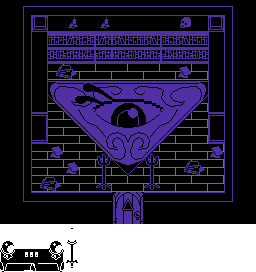
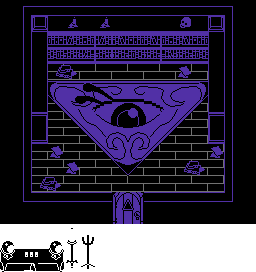
show/hide bounding boxes with ctrl+b

Changed region(s): [[0.5625, 0.5588, 0.625, 0.7059], [0.375, 0.5588, 0.4375, 0.7059], [0.3125, 0.8529, 0.375, 1.0]]

diff --git a/src/town/topview/__init__.py b/src/town/topview/__init__.py
@@ -1,4 +1,5 @@
 import pygame
+from pygame import Surface, SRCALPHA
 from contexts import Context
 from contexts.dialogue import DialogueContext
 from contexts.shop import ShopContext
@@ -32,6 +33,7 @@ class TopViewContext(Context):
     ctx.elem = None
     ctx.link = None
     ctx.anims = []
+    ctx.debug = False
 
   def handle_keydown(ctx, key):
     if ctx.child:
@@ -45,6 +47,8 @@ class TopViewContext(Context):
       return None
     if key in (pygame.K_SPACE, pygame.K_RETURN):
       return ctx.handle_talk()
+    if key == pygame.K_b and keyboard.get_pressed(pygame.K_LCTRL):
+      return ctx.handle_debug()
 
   def handle_keyup(ctx, key):
     if ctx.child:
@@ -55,6 +59,9 @@ class TopViewContext(Context):
   def handle_move(ctx, delta):
     ctx.hero.move(delta)
     ctx.collide(ctx.hero, delta)
+
+  def handle_debug(ctx):
+    ctx.debug = not ctx.debug
 
   def collide(ctx, actor, delta):
     delta_x, delta_y = delta
@@ -179,17 +186,27 @@ class TopViewContext(Context):
         z -= 1
       return z
     elems = sorted(ctx.stage.elems, key=zsort)
+    elem_sprites = []
     for elem in elems:
       if not ctx.child and hero.can_talk(elem):
         bubble_x, bubble_y = elem.get_rect().topright
         bubble_y -= TILE_SIZE // 4
-        sprites.append(Sprite(
+        elem_sprites.append(Sprite(
           image=assets.sprites["bubble_talk"],
           pos=(bubble_x, bubble_y),
           origin=("left", "bottom"),
           layer="markers"
         ))
-      sprites += elem.view()
+      elem.view(elem_sprites)
+      if ctx.debug and not ctx.child:
+        elem_sprites += debug_elem_view(elem)
+
+    elem_sprites.sort(key=lambda sprite: (
+      0 if sprite.layer == "bg"
+      else 2 if sprite.layer == "markers"
+      else 1
+    ))
+    sprites += elem_sprites
 
     if not ctx.child or type(ctx.child.child) is not ShopContext:
       hud_image = ctx.hud.update(ctx.hero.core)
@@ -209,3 +226,29 @@ class TopViewContext(Context):
 
     if ctx.child:
       ctx.child.view(sprites)
+
+def debug_elem_view(elem):
+  RED = 0x7FFF0000
+  BLUE = 0x7F0000FF
+  YELLOW = 0x7FFFFF00
+  GREEN = 0x7F00FF00
+  CIRCLE_RADIUS = 2
+  CIRCLE_SIZE = (CIRCLE_RADIUS * 2, CIRCLE_RADIUS * 2)
+
+  elem_rect = elem.get_rect()
+  box_surface = Surface(elem_rect.size, SRCALPHA)
+  box_color = RED if elem.solid else BLUE
+  box_layer = "markers" if elem.solid else "bg"
+  box_surface.fill(box_color)
+
+  pos_circle = Surface(CIRCLE_SIZE, SRCALPHA)
+  pygame.draw.circle(pos_circle, YELLOW, (CIRCLE_RADIUS, CIRCLE_RADIUS), CIRCLE_RADIUS)
+
+  spawn_circle = Surface(CIRCLE_SIZE, SRCALPHA)
+  pygame.draw.circle(spawn_circle, GREEN, (CIRCLE_RADIUS, CIRCLE_RADIUS), CIRCLE_RADIUS)
+
+  return [
+    Sprite(image=box_surface, pos=elem_rect.topleft, layer="hud"),
+    # Sprite(image=spawn_circle, pos=elem.spawn_pos, layer="hud", origin=("center", "center")),
+    Sprite(image=pos_circle, pos=elem.pos, layer="hud", origin=("center", "center")),
+  ]

diff --git a/src/town/topview/stage.py b/src/town/topview/stage.py
@@ -29,27 +29,25 @@ class Stage:
   scale = 32
 
   def parse_char(char):
-    if char == ".": return Stage.FLOOR, None
-    if char == "#": return Stage.WALL, None
-    if char == "'": return Stage.HALF_WALL, None
-    if char == "+": return Stage.FLOOR, Door()
+    if char == ".": return Stage.FLOOR
+    if char == "#": return Stage.WALL
+    if char == "'": return Stage.HALF_WALL
 
-  def __init__(stage, matrix=None):
-    stage.matrix = matrix or []
+  def __init__(stage, layout, elems):
+    stage.matrix = []
     stage.elems = []
-
-  def use(stage, layout, elems):
     for y, row in enumerate(layout):
       stage.matrix.append([])
       for x, char in enumerate(row):
         if char in elems:
-          elem = elems[char]
           tile = Stage.FLOOR
-        else:
-          tile, elem = Stage.parse_char(char)
-        stage.matrix[y].append(tile)
-        if elem:
+          elem = elems[char]
+          if callable(elem):
+            elem = elem()
           stage.spawn_elem_at((x, y), elem)
+        else:
+          tile = Stage.parse_char(char)
+        stage.matrix[y].append(tile)
 
   def get_width(stage):
     return len(stage.matrix[0]) if len(stage.matrix) else 0
@@ -77,8 +75,8 @@ class Stage:
 
   def spawn_elem_at(stage, cell, elem):
     x, y = cell
-    elem.pos = (
-      x * stage.scale + TILE_SIZE // 2,
-      y * stage.scale + TILE_SIZE // 2
-    )
+    elem.spawn((
+      (x + 0.5) * stage.scale,
+      (y + 0.5) * stage.scale
+    ))
     stage.elems.append(elem)

diff --git a/src/town/areas/fortune.py b/src/town/areas/fortune.py
@@ -1,5 +1,7 @@
 from town.topview.stage import Stage, Link
 from town.topview.actor import Actor
+from town.topview.door import Door
+from town.topview.fortunestand import FortuneStand
 from town.topview.fortunedesk import FortuneDesk
 from contexts.prompt import PromptContext, Choice
 from contexts.shop import ShopContext
@@ -21,19 +23,18 @@ class FortuneArea(Stage):
     "################",
     "###..........###",
     "###....1.....###",
-    "###...2......###",
-    "###...#####..###",
+    "###..........###",
+    "###...2####..###",
     "###..........###",
     "##............##",
     "##.....0......##",
-    "##....#..#....##",
-    "################",
-    "################",
+    "##....|..|....##",
+    "#######+.#######",
+    "#######..#######",
   ]
 
   def __init__(stage, hero):
-    super().__init__()
-    stage.use(stage.layout, {
+    super().__init__(stage.layout, {
       "0": hero,
       "1": Actor(
         core=MageCore(name="Mira"),
@@ -74,5 +75,7 @@ class FortuneArea(Stage):
           lambda: ctx.get_root().dissolve_out()
         ]
       ),
-      "2": FortuneDesk()
+      "2": FortuneDesk,
+      "|": FortuneStand,
+      "+": Door
     })

diff --git a/src/town/topview/door.py b/src/town/topview/door.py
@@ -2,10 +2,14 @@ from town.topview.element import Element
 from sprite import Sprite
 from assets import load as use_assets
 from anims.pause import PauseAnim
+from filters import replace_color
+from palette import WHITE, BLUE_DARK
 
 class Door(Element):
   EFFECT_DELAY = 20
   OPEN_DELAY = 20
+  spawn_offset = (8, 8)
+  rect_offset = (-16, -16)
 
   def __init__(door):
     super().__init__()
@@ -30,7 +34,13 @@ class Door(Element):
     door.opened = True
     door.solid = False
 
-  def view(door):
-    sprites = use_assets().sprites
-    door_image = door.opened and sprites["door_open"] or sprites["door"]
-    return [Sprite(image=door_image, pos=door.pos, origin=("center", "center"))]
+  def view(door, sprites):
+    assets = use_assets().sprites
+    door_image = door.opened and assets["door_open"] or assets["door"]
+    door_image = replace_color(door_image, WHITE, BLUE_DARK)
+    sprites.append(Sprite(
+      image=door_image,
+      pos=door.pos,
+      origin=("center", "center"),
+      layer="bg"
+    ))

diff --git a/src/town/topview/element.py b/src/town/topview/element.py
@@ -2,15 +2,28 @@ from pygame import Rect
 from config import TILE_SIZE
 
 class Element:
+  size = (TILE_SIZE, TILE_SIZE)
+  spawn_offset = (0, 0)
+  rect_offset = (-8, -8)
+
   def __init__(elem, solid=True):
     elem.pos = (0, 0)
+    elem.spawn_pos = None
     elem.solid = solid
+
+  def spawn(elem, pos):
+    x, y = pos
+    offset_x, offset_y = elem.spawn_offset
+    elem.pos = (x + offset_x, y + offset_y)
+    elem.spawn_pos = pos
 
   def get_rect(elem):
     x, y = elem.pos
-    left = x - TILE_SIZE // 2
-    top = y - TILE_SIZE // 2
-    return Rect(left, top, TILE_SIZE, TILE_SIZE)
+    width, height = elem.size
+    offset_x, offset_y = elem.rect_offset
+    left = x + offset_x
+    top = y + offset_y
+    return Rect(left, top, width, height)
 
   def effect(elem, ctx):
     pass

diff --git a/src/town/topview/fortunedesk.py b/src/town/topview/fortunedesk.py
@@ -6,10 +6,12 @@ from filters import replace_color
 from palette import WHITE, ORANGE
 
 class FortuneDesk(Element):
-  def __init__(desk, solid=False):
-    super().__init__(solid=solid)
+  size = (80, 16)
+  spawn_offset = (0, 0)
+  rect_offset = (-8, -8)
+  draw_offset = (-8, 8)
 
-  def view(desk):
+  def view(desk, sprites):
     desk_image = use_assets().sprites["fortune_desk"]
     desk_image = replace_color(desk_image, WHITE, ORANGE)
     desk_sprite = Sprite(
@@ -18,5 +20,5 @@ class FortuneDesk(Element):
       origin=("left", "bottom"),
       layer="elems"
     )
-    desk_sprite.move((-TILE_SIZE / 2, TILE_SIZE / 2))
-    return [desk_sprite]
+    desk_sprite.move(desk.draw_offset)
+    sprites.append(desk_sprite)

diff --git a/src/town/topview/actor.py b/src/town/topview/actor.py
@@ -10,6 +10,7 @@ TALK_RADIUS = TILE_SIZE * 1.5
 
 class Actor(Element):
   speed = 1.5
+  spawn_offset = (8, 8)
 
   def __init__(actor, core, pos=None, facing=None, color=None, moving=False, move_period=30, is_shopkeep=False, message=None):
     super().__init__()
@@ -96,10 +97,10 @@ class Actor(Element):
     if actor.anim:
       actor.anim.update()
 
-  def view(actor):
+  def view(actor, sprites):
     sprite = actor.core.render()
     # sprite.image = outline(sprite.image, WHITE)
     sprite.origin = ("center", "center")
     x, y = actor.get_rect().midtop
     sprite.pos = (x, y - 1)
-    return [sprite]
+    sprites.append(sprite)

diff --git a/src/town/topview/fortunestand.py b/src/town/topview/fortunestand.py
@@ -1,0 +1,21 @@
+from town.topview.element import Element
+from assets import load as use_assets
+from sprite import Sprite
+from config import TILE_SIZE
+from filters import replace_color
+from palette import WHITE, BLUE_DARK
+
+class FortuneStand(Element):
+  size = (16, 16)
+
+  def view(stand, sprites):
+    stand_image = use_assets().sprites["fortune_stand"]
+    stand_image = replace_color(stand_image, WHITE, BLUE_DARK)
+    stand_sprite = Sprite(
+      image=stand_image,
+      pos=stand.pos,
+      origin=("center", "bottom"),
+      layer="elems"
+    )
+    stand_sprite.move((0, TILE_SIZE / 4))
+    sprites.append(stand_sprite)

diff --git a/src/contexts/shop.py b/src/contexts/shop.py
@@ -166,8 +166,8 @@ class ShopContext(Context):
   def handle_exit(ctx):
     portrait = ctx.portraits[0]
     portrait.start_talk()
-    ctx.bubble.print("MIRA: See you soon...", on_end=lambda: (
-      ctx.anims.append(Anim(duration=30, on_end=ctx.exit)),
+    ctx.bubble.print("MIRA: Come again...", on_end=lambda: (
+      ctx.anims.append(Anim(duration=45, on_end=ctx.exit)),
       portrait.stop_talk()
     ))
 

diff --git a/src/transits/dissolve.py b/src/transits/dissolve.py
@@ -94,6 +94,15 @@ class DissolveIn:
             transit.on_end()
     transit.time += 1
 
+  def view(transit, sprites):
+    surface = Surface(transit.size, SRCALPHA)
+    transit.draw(surface)
+    sprites.append(Sprite(
+      image=surface,
+      pos=(0, 0),
+      layer="transits"
+    ))
+
   def draw(transit, surface):
     for node in transit.nodes:
       x, y, t = node

diff --git a/src/contexts/cardgroup.py b/src/contexts/cardgroup.py
@@ -21,6 +21,7 @@ CARD_SPACING = 2
 class SelectAnim(TweenAnim): blocking = False
 class DeselectAnim(TweenAnim): blocking = False
 class SlideAnim(TweenAnim): blocking = True
+class SlideCornerAnim(TweenAnim): blocking = True
 class ChooseAnim(TweenAnim): blocking = False
 class UnchooseAnim(TweenAnim): blocking = True
 
